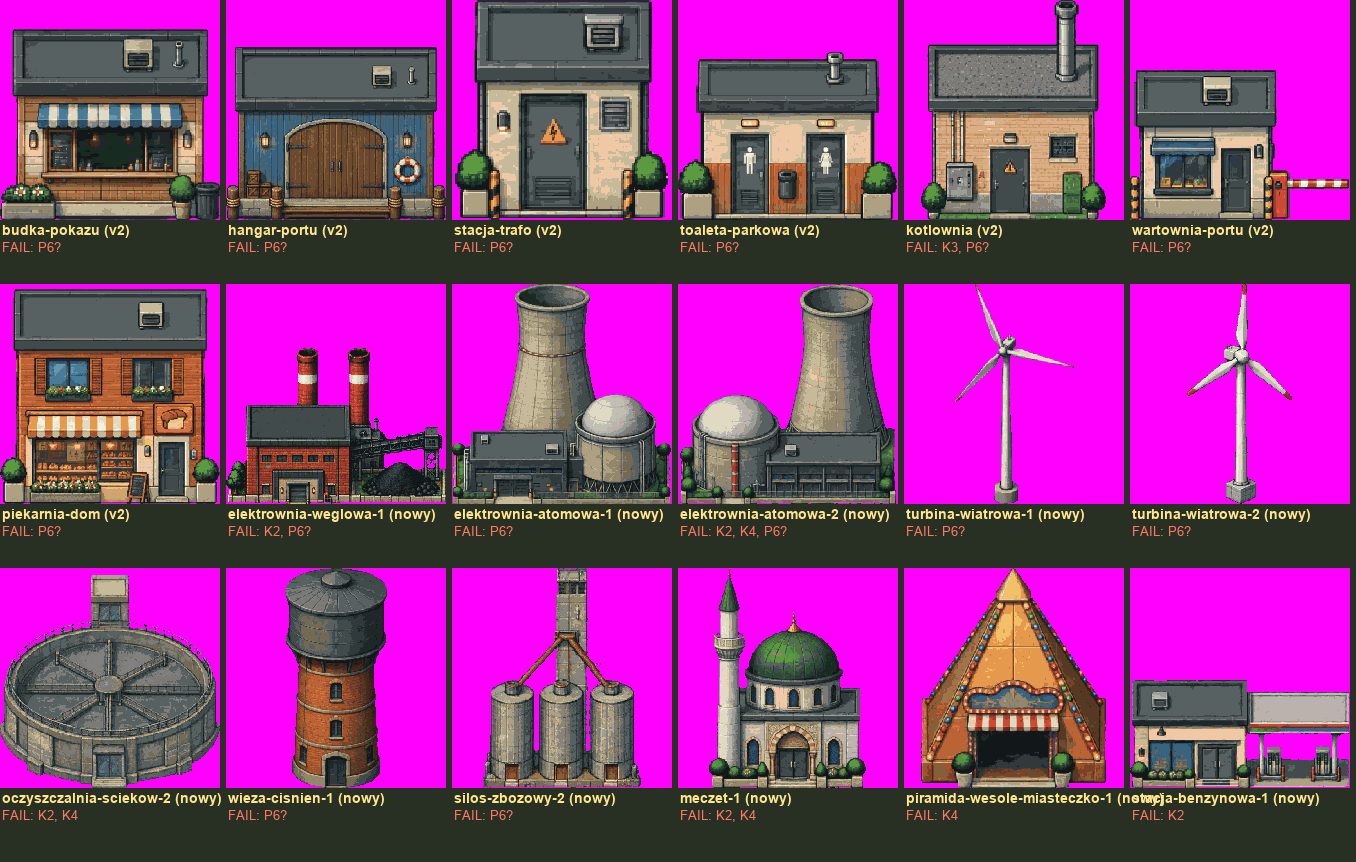
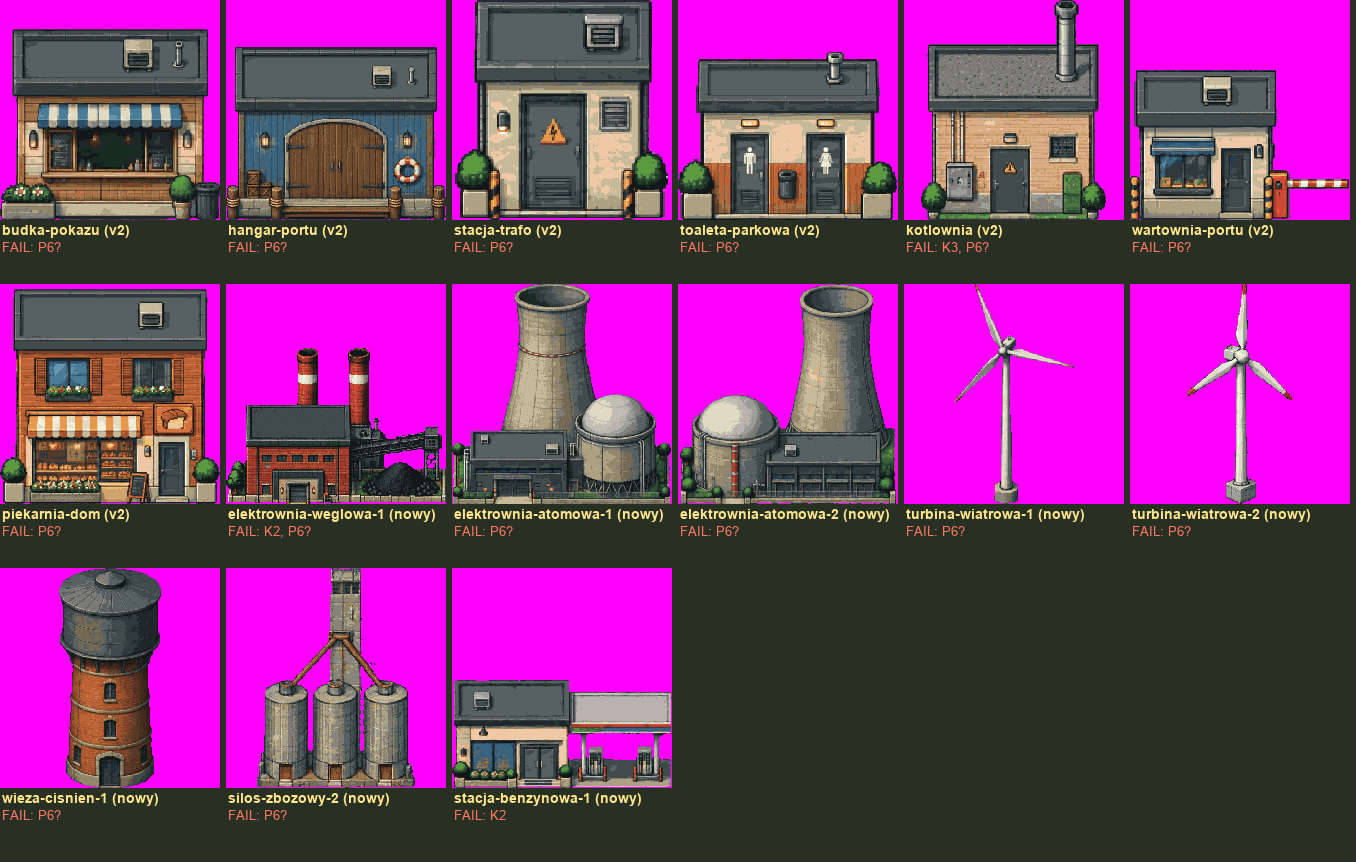
Walidator: profil bryly (plaski dach / inne), D4 i D6 wg naszego kanonu drzwi, wyniki v3

Changed region(s): [[0.0, 0.6032, 1.0, 0.9652]]

diff --git a/wspolne/narzedzia/sprawdz_grafike.py b/wspolne/narzedzia/sprawdz_grafike.py
@@ -194,7 +194,10 @@ def drzwi(c, o, meta, typ):
             m = np.ones(c.shape[:2], bool); m[cr["y"]:cr["y"] + cr["h"], cr["x"]:cr["x"] + cr["w"]] = False
             w["D2"] = ("PASS", "") if (c[m] == o[m]).all() else ("FAIL", f"{int((c[m] != o[m]).any(-1).sum())} pikseli rozni sie poza changedRegion")
             ow = o[dw["y"]:dw["y"] + dw["h"], dw["x"]:dw["x"] + dw["w"], 3]; orr = o[cr["y"]:cr["y"] + cr["h"], cr["x"]:cr["x"] + cr["w"], 3]
-            w["D4"] = ("PASS", "") if (ow == 0).any() and (orr == 255).any() else ("FAIL", "open bez otworu albo bez ramy")
+            # D4 wg zasad dioramaonline-lora: changedRegion = sam otwor; rama i skrzydla drzwi zostaja POZA regionem (niezmienne),
+            # wiec w open: otwor ma piksele przezroczyste, a wokol regionu (rama) piksele pelne
+            ramka = c[max(0, cr["y"] - 2):cr["y"] + cr["h"], max(0, cr["x"] - 3):cr["x"] + cr["w"] + 3, 3].copy(); ramka[2:, 3:-3] = 255
+            w["D4"] = ("PASS", "") if (ow == 0).any() and (ramka == 255).mean() > 0.9 else ("FAIL", "open bez otworu albo bez ramy wokol otworu")
             cc = c[cr["y"]:cr["y"] + cr["h"], cr["x"]:cr["x"] + cr["w"], 3]
             w["D5"] = ("PASS", "") if not ((cc == 0) & (orr > 0)).any() else ("FAIL", "w open pojawiaja sie piksele niewidoczne w closed")
         else:
@@ -202,7 +205,8 @@ def drzwi(c, o, meta, typ):
         cw = c[dw["y"]:dw["y"] + dw["h"], dw["x"]:dw["x"] + dw["w"], 3]
         w["D3"] = ("PASS", "") if cw.size and (cw == 255).all() else ("FAIL", "otwor w closed nie jest pelny")
         dol = d["placement"]["y"] + MODUL.get(d["module"], (59, 58))[1]; h = c.shape[0]
-        w["D6"] = ("PASS", "") if 0 <= h - dol <= max(tol(h), 0.12 * h) else ("FAIL", f"dol drzwi {h - dol} px nad podstawa")
+        # D6: dol drzwi na linii frontu; schodki pod drzwiami dozwolone do ok. 1,25 m (30 px)
+        w["D6"] = ("PASS", "" if h - dol <= max(tol(h), 6) else f"schodki {h - dol} px") if 0 <= h - dol <= 30 else ("FAIL", f"dol drzwi {h - dol} px nad podstawa")
         md = MODUL.get(d["module"])
         w["D7"] = ("PASS", "") if md and dw["w"] == md[2] else ("FAIL", f"modul {d['module']}, otwor {dw['w']} px")
     if len(regs) > 1:
@@ -221,15 +225,32 @@ def metadane(meta, typ):
     return ("PASS", "") if not brak else ("FAIL", "brak: " + ", ".join(brak))
 
 
-def sprawdz(closed_png, open_png=None, meta=None, typ="wejsciowy", zrodlo=None):
+def profil(opis):
+    """typ bryly z opisu (caption/prompt) wg schematu: plaski = budynek z plaskim prostokatnym dachem (pelne K2-K4, P3);
+    reszta (obiekty, konstrukcje, kopuly, wieze) - reguly dachu nie dotycza, przeswity i skosy konstrukcyjne dozwolone"""
+    o = (opis or "").lower()
+    budynek = "building" in o.split(".")[0]
+    plaski = "flat rectangular roof visible from above" in o
+    return {"budynek": budynek, "plaski": plaski and budynek}
+
+
+def sprawdz(closed_png, open_png=None, meta=None, typ="wejsciowy", zrodlo=None, opis=None):
+    """opis: caption albo prompt obiektu - z niego profil bryly. Bez opisu: zachowanie jak dla budynku z plaskim dachem."""
+    pr = profil(opis) if opis else {"budynek": True, "plaski": True}
     c = wczytaj(closed_png) if isinstance(closed_png, str) else closed_png
     o = wczytaj(open_png) if isinstance(open_png, str) and os.path.exists(open_png) else None
     z = z_magenty(zrodlo) if isinstance(zrodlo, str) and os.path.exists(zrodlo) else None
     otw = None
     if meta and meta.get("doors"): d = meta["doors"][0]["doorway"]; otw = (d["x"], d["y"], d["w"], d["h"])
-    w = {"P1": p1(c), "P2": p2(z), "P3": p3(c), "P4": p4(c), "P5": p5(c), "P6": p6(c)}
-    w["K1"] = k1(c, meta, typ); w["K2"], yo = k2(c); w["K3"] = k3(c, yo); w["K4"] = k4(c)
-    if w["K4"][0] == "FAIL" and w["K2"][0] == "SKIP":   # bryla bez rozpoznanego prostokatnego wierzchu: skosy moga byc konstrukcyjne (lopaty, kopuly, namioty)
-        w["K4"] = ("SKIP", w["K4"][1] + " - bryla nietypowa, skosy moga byc konstrukcyjne")
+    w = {"P1": p1(c), "P2": p2(z), "P3": p3(c, otw), "P4": p4(c), "P5": p5(c), "P6": p6(c)}
+    w["K1"] = k1(c, meta, typ)
+    if pr["plaski"]:
+        w["K2"], yo = k2(c); w["K3"] = k3(c, yo); w["K4"] = k4(c)
+        if w["K4"][0] == "FAIL" and w["K2"][0] == "SKIP":
+            w["K4"] = ("SKIP", w["K4"][1] + " - nie rozpoznano wierzchu")
+    else:
+        w["K2"] = w["K3"] = ("ND", "nie dotyczy: bryla bez plaskiego prostokatnego dachu")
+        k = k4(c); w["K4"] = ("SKIP", k[1] + " - skosy moga byc konstrukcyjne") if k[0] == "FAIL" else k
+        if w["P3"][0] == "FAIL": w["P3"] = ("PASS", "przeswity dozwolone w obiektach/konstrukcjach: " + w["P3"][1])
     w.update(drzwi(c, o, meta, typ)); w["M"] = metadane(meta, typ)
     return w

diff --git a/wspolne/narzedzia/waliduj_zbior_v3.py b/wspolne/narzedzia/waliduj_zbior_v3.py
@@ -27,14 +27,14 @@ for l in open(f"{V3}/metadata.jsonl", encoding="utf-8"):
             meta["doors"] = [{"module": "std-external-2", "placement": {"x": d["x_px"], "y": d["y_px"]},
                               "doorway": {"x": d["x_px"] + dw["x"], "y": d["y_px"] + dw["y"], "w": dw["w"], "h": dw["h"]},
                               "changedRegion": {"x": d["x_px"] + dw["x"], "y": d["y_px"] + dw["y"], "w": dw["w"], "h": dw["h"]}}]
-    w = S.sprawdz(closed, op, meta, typ, zrodlo)
-    wyn.append({"nazwa": n, "zrodlo": "v2" if r["zrodlo"] == "v2-final" else "nowy", "typ": typ, "plik": closed, **{k: w.get(k, ("", ""))[0] for k in IDS},
+    w = S.sprawdz(closed, op, meta, typ, zrodlo, opis=r["caption"])
+    wyn.append({"nazwa": n, "zrodlo": "v2" if r["zrodlo"] == "v2-final" else "nowy", "typ": typ, "plik": closed, **{k: w.get(k, ("", ""))[0] for k in IDS}, "profil": "plaski dach" if S.profil(r["caption"])["plaski"] else ("budynek inny" if S.profil(r["caption"])["budynek"] else "obiekt"),
                 "uwagi": " | ".join(f"{k}: {v[1]}" for k, v in w.items() if v[0] != "PASS" and v[1])})
 with open(f"{OUT}/wyniki.csv", "w", newline="", encoding="utf-8") as f:
     c = csv.DictWriter(f, fieldnames=list(wyn[0])); c.writeheader(); c.writerows(wyn)
 lin = [f"Walidacja zbioru v3-final ({len(wyn)} obiektow): PASS / FAIL / SKIP / brak"]
 for k in IDS:
-    cnt = collections.Counter(r[k] or "-" for r in wyn); lin.append(f"{k:3} PASS {cnt['PASS']:3}  FAIL {cnt['FAIL']:3}  SKIP {cnt['SKIP']:3}  nie dotyczy {cnt['-']:3}")
+    cnt = collections.Counter(r[k] or "-" for r in wyn); lin.append(f"{k:3} PASS {cnt['PASS']:3}  FAIL {cnt['FAIL']:3}  SKIP {cnt['SKIP']:3}  nie dotyczy {cnt['-'] + cnt['ND']:3}")
 open(f"{OUT}/podsumowanie.txt", "w", encoding="utf-8").write("\n".join(lin)); print("\n".join(lin))
 # arkusz: obiekty z FAIL w K3/K4/P3/P6-podejrzenie
 zle = [r for r in wyn if r["K3"] == "FAIL" or r["K4"] == "FAIL" or r["K2"] == "FAIL" or "PODEJRZENIE" in r["uwagi"]]
